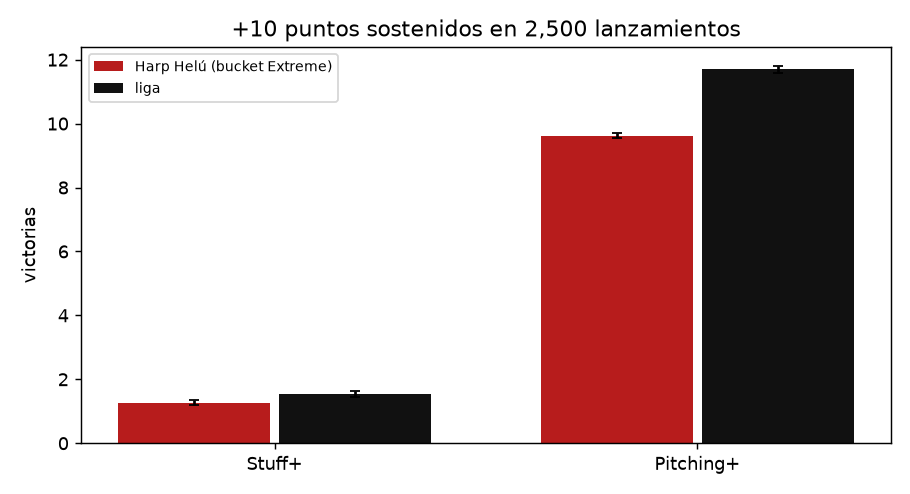
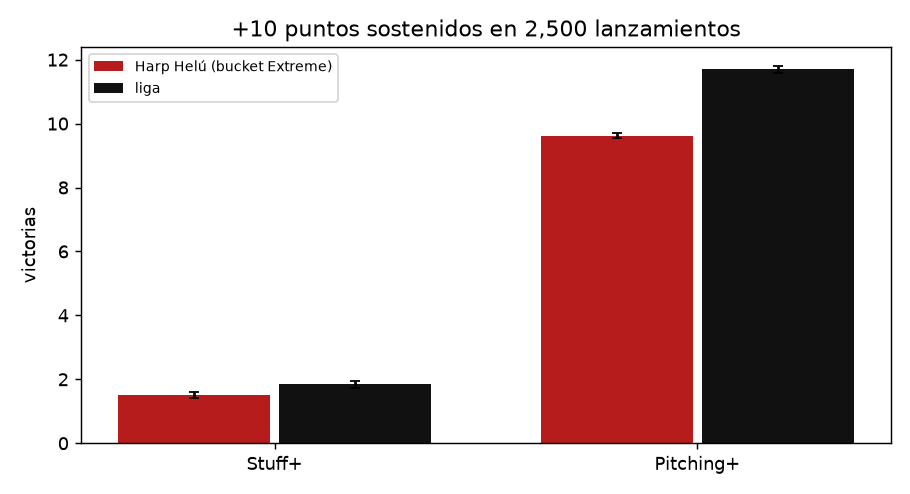
HACK-078: business value on the production Stuff+ v2 scale (OOF fit_production_stuff count-neutral value, Plus scale from the exported stuff.json): 1 point = 8.68e-4 runs/pitch [8.18e-4, 9.19e-4] (v1: 7.24e-4); +10 Stuff+ in 2,500 pitches = 21.7 runs = 1.51 wins in Harp Hel (v1: 1.26); 1 SD = 0.77 w

Changed region(s): [[0.1231, 0.7591, 0.4923, 0.8198]]

diff --git a/analysis/business_value/run.py b/analysis/business_value/run.py
@@ -1,6 +1,10 @@
 """HACK-035: carreras por victoria de la LMB, conversión Stuff+ → carreras → victorias y ejemplo del brazo a prueba de altura.
 
-Uso: python analysis/business_value/run.py  (≈ 3 min: el build de rv_x). Escribe agregados en reports/business_value/.
+Uso: python analysis/business_value/run.py  (≈ 1 h sin caché: 5 ajustes del Stuff+ de producción). Escribe agregados en
+reports/business_value/.
+
+Desde HACK-078 los puntos de Stuff+ son los de producción (v2: valor neutral al conteo + temperatura, HACK-057): xRV fuera
+de pliegue por pitcher con ``fit_production_stuff`` y la escala Plus del modelo exportado (web/public/data/models/stuff.json).
 """
 from __future__ import annotations
 
@@ -18,9 +22,11 @@ from analysis.pitching_model import run as pitching_run
 from analysis.stuff_model import run as stuff_run
 from stuffplus import splits
 from stuffplus import value as V
-from stuffplus.bundle import load_bundle
+import json
 from stuffplus.io import load_raw
 from stuffplus.models import pitching as pitching_models
+from stuffplus.models.location import add_pitch_family
+from stuffplus.models.stuff import PRODUCTION_VERSION, fit_production_stuff
 from stuffplus.physics import parks
 from stuffplus.scale import PlusScaler
 from stuffplus.schema import clean
@@ -73,23 +79,38 @@ games_per_team_season = float(ts["games"].median())
 home_starts = max(int(round(games_per_team_season / 2 / 5)), 1)  # juegos de local por temporada en los datos / rotación de 5
 
 # --- 4. carreras por punto: estimación DIRECTA fuera de muestra (puntos con el scaler del modelo, regresión del run value realizado)
-bundle = load_bundle()
-st = bundle.manifest["scalers"]["stuff"]["stats"]
+STUFF_JSON = Path("web/public/data/models/stuff.json")
+stuff_export = json.loads(STUFF_JSON.read_text(encoding="utf-8"))
+assert stuff_export["model_version"] == PRODUCTION_VERSION, "stuff.json no es el Stuff+ de producción"
+st = stuff_export["plus"]["stats"]
 sigma = float(st["__all__"]["sd"])
 sigma_years = {k: float(v["sd"]) for k, v in st.items() if k != "__all__"}
-cache = Path("artifacts/business_value_oof.parquet")
+def plus_from_export(x: np.ndarray, year: np.ndarray) -> np.ndarray:
+    """100 + 10·sign·(x − media)/de con la escala del Stuff+ exportado, por temporada (global si falta)."""
+    sign = stuff_export["plus"].get("sign", -1)
+    out = np.empty(len(x))
+    for i, (v, y) in enumerate(zip(x, year)):
+        g = st.get(str(int(y)), st["__all__"])
+        out[i] = 100 + 10 * sign * (v - g["mean"]) / g["sd"]
+    return out
+
+
+cache = Path(f"artifacts/business_value_oof_{PRODUCTION_VERSION}.parquet")
 if cache.exists():
     oofdf = pd.read_parquet(cache)
 else:
     folds = list(splits.pitcher_group_kfold(df))
-    stuff_oof = stuff_run.StuffModel().oof(df, folds)["xrv"].to_numpy(float)  # xRV predicho fuera de muestra, por pitcher
+    dfam = add_pitch_family(df)
+    stuff_oof = np.full(len(df), np.nan)  # valor de Stuff+ v2 fuera de muestra, por pitcher
+    for tr, te in folds:
+        stuff_oof[te] = fit_production_stuff(dfam.iloc[tr]).predict_xrv(dfam.iloc[te])
     po = pitching_models.run_oof(df, folds)
     pitch_neutral = pitching_models.combine(po, df["rv_x"].to_numpy(), folds)["combined_neutral"]  # Pitching+ del dashboard: bateador neutral
     oofdf = pd.DataFrame({"stuff_xrv": stuff_oof, "pitching_xrv": pitch_neutral})
     cache.parent.mkdir(parents=True, exist_ok=True)
     oofdf.to_parquet(cache, index=False)
 pts = {
-    "Stuff+": bundle.scalers["stuff"].transform(df.assign(x=oofdf["stuff_xrv"].to_numpy()), "x"),
+    "Stuff+": plus_from_export(oofdf["stuff_xrv"].to_numpy(float), df["year"].to_numpy()),
     # el scaler de Pitching+ del bundle local no es el de joahan-1: se reajusta con el mismo procedimiento (PlusScaler por temporada)
     "Pitching+": PlusScaler().fit(df.assign(x=oofdf["pitching_xrv"].to_numpy()), "x").transform(
         df.assign(x=oofdf["pitching_xrv"].to_numpy()), "x"),
@@ -109,8 +130,8 @@ direct.round(7).to_csv(OUT / "runs_per_point_direct.csv", index=False)
 cal = V.calibration_slope(oofdf["stuff_xrv"].to_numpy(float), df["rv_x"].to_numpy(float), groups)
 check = 0.1 * sigma * cal["slope"]
 pd.DataFrame([dict(sigma_scaler_all=sigma, **{f"sigma_{k}": v for k, v in sigma_years.items()}, **cal, sigma_x_slope_x_0p1=check,
-                   direct_stuff_rv_x=est[("Stuff+", "rv_x")]["per_point"], bundle_version=bundle.manifest["version"],
-                   bundle_created=bundle.manifest["created_at"])]).round(7).to_csv(OUT / "stuff_scale_calibration.csv", index=False)
+                   direct_stuff_rv_x=est[("Stuff+", "rv_x")]["per_point"], model_version=PRODUCTION_VERSION,
+                   scale_source=str(STUFF_JSON).replace("\\", "/"))]).round(7).to_csv(OUT / "stuff_scale_calibration.csv", index=False)
 per_point = {}
 for name in pts:
     e = est[(name, "rv_x")]
@@ -183,8 +204,8 @@ lines = [
     "**Estimación directa, fuera de muestra:** los puntos de Stuff+ y Pitching+ (xRV predicho con validación cruzada por pitcher, escalado con el scaler del modelo: 100 + 10·z) "
     "se regresan contra el run value realizado; las carreras ahorradas por punto y por lanzamiento son menos la pendiente. IC 95 % por pitcher (bootstrap).", "",
     tbl(direct, ["escala", "objetivo", "carreras_por_punto_lanzamiento", "lo", "hi"], "{:.3g}"), "",
-    f"Control cruzado (Stuff+): σ del scaler del bundle {bundle.manifest['version']} ({sigma:.5f}) × calibración {cal['slope']:.2f} × 0.1 = {check:.2e}, "
-    f"frente a {est[('Stuff+', 'rv_x')]['per_point']:.2e} directo. El bundle se reconstruyó localmente con `analysis/stuff_model/run.py` (creado {bundle.manifest['created_at']}). "
+    f"Control cruzado (Stuff+ {PRODUCTION_VERSION}): σ de la escala del modelo exportado ({sigma:.5f}, `{STUFF_JSON.as_posix()}`) × calibración {cal['slope']:.2f} × 0.1 = {check:.2e}, "
+    f"frente a {est[('Stuff+', 'rv_x')]['per_point']:.2e} directo. El xRV fuera de pliegue es el valor neutral al conteo de `fit_production_stuff` (HACK-057, HACK-078). "
     "Pitching+ usa el xRV combinado con bateador neutral (el que sirve el dashboard) escalado con un `PlusScaler` ajustado con el mismo procedimiento.", "",
     "### Ejemplo para el GM", "",
     f"**+{GM_POINTS} puntos de Stuff+ sostenidos en {GM_PITCHES:,} lanzamientos** (orden de magnitud de una temporada de abridor: ~30 aperturas × ~80 lanzamientos; supuesto, no de los datos):", "",
@@ -208,13 +229,13 @@ lines = [
     f"Brecha entre el brazo de alta pérdida y el de a prueba de altura: **{ex.attrs['gap_runs']:.1f} carreras ≈ {ex.attrs['gap_wins']:.2f} victorias** en esa temporada de aperturas en casa.", "",
     "## Advertencias", "",
     "- `rv_x` valora las bolas en juego con la altitud como rasgo (HACK-030): el costo de la altura incluye parte del modelo de contacto, no solo los lanzamientos.",
-    "- Los bundles no se comparten por git: la escala se reconstruyó localmente (`analysis/stuff_model/run.py`); si el modelo se reentrena, hay que volver a correr este análisis (la caché OOF está en `artifacts/`, git-ignored).",
+    "- La escala de Stuff+ es la del modelo exportado (`web/public/data/models/stuff.json`); si el modelo se reentrena, hay que volver a correr este análisis (la caché OOF está en `artifacts/`, git-ignored).",
     "- Los puntos usan el xRV de los modelos completos fuera de muestra, no el modelo destilado del dashboard (R² 0.92 / 0.94 con ellos): aproximan el mismo número.",
     "- El efecto de un punto es chico por lanzamiento y crece con el volumen: sumas grandes (miles de lanzamientos) y grupos de lanzamientos, no un lanzamiento suelto. El `rv` observado es más ruidoso que `rv_x`: su IC es más ancho.",
     "- Marcadores reconstruidos: partidos incompletos en los datos o carreras fuera de los lanzamientos pueden sesgar; los datos solo cubren una muestra de la temporada por equipo.",
     "- Linealización pitagórica válida cerca de un equipo promedio; ±1σ en sensibilidad supone dispersión aproximadamente normal.",
     "- La identidad CDMX vs Puebla sigue sin verificar (HACK-003): «entorno Extreme» agrupa los parques de altura.",
 ]
-(OUT / "summary.md").write_text("\n".join(lines))
+(OUT / "summary.md").write_text("\n".join(lines), encoding="utf-8")
 print("\n".join(lines[:14]))
 print(ex.round(4).to_string()); print(sens, sens_med)

diff --git a/reports/business_value/summary.md b/reports/business_value/summary.md
@@ -22,12 +22,12 @@ Exponente pitagórico **x = 1.90** (IC 95 % bootstrap 1.62–2.15, 60 equipo-tem
 
 | escala | objetivo | carreras_por_punto_lanzamiento | lo | hi |
 |---|---|---|---|---|
-| Stuff+ | rv_x | 0.000724 | 0.000677 | 0.000769 |
-| Stuff+ | rv | 0.000726 | 0.00067 | 0.000783 |
+| Stuff+ | rv_x | 0.000868 | 0.000818 | 0.000919 |
+| Stuff+ | rv | 0.0009 | 0.000837 | 0.000962 |
 | Pitching+ | rv_x | 0.00551 | 0.00547 | 0.00556 |
 | Pitching+ | rv | 0.00561 | 0.00555 | 0.00567 |
 
-Control cruzado (Stuff+): σ del scaler del bundle v1 (0.01055) × calibración 0.69 × 0.1 = 7.24e-04, frente a 7.24e-04 directo. El bundle se reconstruyó localmente con `analysis/stuff_model/run.py` (creado 2026-10-13T14:45:18+00:00). Pitching+ usa el xRV combinado con bateador neutral (el que sirve el dashboard) escalado con un `PlusScaler` ajustado con el mismo procedimiento.
+Control cruzado (Stuff+ stuff_v2): σ de la escala del modelo exportado (0.01171, `web/public/data/models/stuff.json`) × calibración 0.74 × 0.1 = 8.69e-04, frente a 8.68e-04 directo. El xRV fuera de pliegue es el valor neutral al conteo de `fit_production_stuff` (HACK-057, HACK-078). Pitching+ usa el xRV combinado con bateador neutral (el que sirve el dashboard) escalado con un `PlusScaler` ajustado con el mismo procedimiento.
 
 ### Ejemplo para el GM
 
@@ -35,8 +35,8 @@ Control cruzado (Stuff+): σ del scaler del bundle v1 (0.01055) × calibración 
 
 | escala | entorno | carreras | carreras_lo | carreras_hi | victorias | victorias_lo | victorias_hi |
 |---|---|---|---|---|---|---|---|
-| Stuff+ | liga | 18.1 | 16.9 | 19.2 | 1.54 | 1.44 | 1.63 |
-| Stuff+ | Harp Helú (bucket Extreme) | 18.1 | 16.9 | 19.2 | 1.26 | 1.18 | 1.34 |
+| Stuff+ | liga | 21.7 | 20.4 | 23 | 1.84 | 1.73 | 1.95 |
+| Stuff+ | Harp Helú (bucket Extreme) | 21.7 | 20.4 | 23 | 1.51 | 1.43 | 1.6 |
 | Pitching+ | liga | 138 | 137 | 139 | 11.7 | 11.6 | 11.8 |
 | Pitching+ | Harp Helú (bucket Extreme) | 138 | 137 | 139 | 9.62 | 9.54 | 9.7 |
 
@@ -44,8 +44,8 @@ Cada carrera ahorrada vale menos victorias en el Harp Helú que en la liga (más
 
 | escala | entorno | sd_puntos_entre_pitcher_temporadas | pitcher_temporadas | carreras_por_1sd | victorias_por_1sd |
 |---|---|---|---|---|---|
-| Stuff+ | liga | 5.45 | 818 | 9.86 | 0.837 |
-| Stuff+ | Harp Helú (bucket Extreme) | 5.45 | 818 | 9.86 | 0.688 |
+| Stuff+ | liga | 5.08 | 818 | 11 | 0.934 |
+| Stuff+ | Harp Helú (bucket Extreme) | 5.08 | 818 | 11 | 0.768 |
 | Pitching+ | liga | 1.55 | 818 | 21.4 | 1.82 |
 | Pitching+ | Harp Helú (bucket Extreme) | 1.55 | 818 | 21.4 | 1.5 |
 
@@ -53,22 +53,22 @@ Tabla completa (lanzamientos × entorno × estimación) en `conversion_table.csv
 
 | escenario | lanzamientos | entorno | carreras | victorias |
 |---|---|---|---|---|
-| Stuff+ · rv_x (central) | 1000 | liga | 0.724 | 0.0614 |
-| Stuff+ · rv_x (central) | 1000 | Harp Helú (bucket Extreme) | 0.724 | 0.0505 |
-| Stuff+ · rv_x (central) | 2500 | liga | 1.81 | 0.154 |
-| Stuff+ · rv_x (central) | 2500 | Harp Helú (bucket Extreme) | 1.81 | 0.126 |
-| Stuff+ · rv_x (IC 2.5 %) | 1000 | liga | 0.677 | 0.0575 |
-| Stuff+ · rv_x (IC 2.5 %) | 1000 | Harp Helú (bucket Extreme) | 0.677 | 0.0473 |
-| Stuff+ · rv_x (IC 2.5 %) | 2500 | liga | 1.69 | 0.144 |
-| Stuff+ · rv_x (IC 2.5 %) | 2500 | Harp Helú (bucket Extreme) | 1.69 | 0.118 |
-| Stuff+ · rv_x (IC 97.5 %) | 1000 | liga | 0.769 | 0.0653 |
-| Stuff+ · rv_x (IC 97.5 %) | 1000 | Harp Helú (bucket Extreme) | 0.769 | 0.0537 |
-| Stuff+ · rv_x (IC 97.5 %) | 2500 | liga | 1.92 | 0.163 |
-| Stuff+ · rv_x (IC 97.5 %) | 2500 | Harp Helú (bucket Extreme) | 1.92 | 0.134 |
-| Stuff+ · rv observado | 1000 | liga | 0.726 | 0.0616 |
-| Stuff+ · rv observado | 1000 | Harp Helú (bucket Extreme) | 0.726 | 0.0507 |
-| Stuff+ · rv observado | 2500 | liga | 1.82 | 0.154 |
-| Stuff+ · rv observado | 2500 | Harp Helú (bucket Extreme) | 1.82 | 0.127 |
+| Stuff+ · rv_x (central) | 1000 | liga | 0.868 | 0.0736 |
+| Stuff+ · rv_x (central) | 1000 | Harp Helú (bucket Extreme) | 0.868 | 0.0605 |
+| Stuff+ · rv_x (central) | 2500 | liga | 2.17 | 0.184 |
+| Stuff+ · rv_x (central) | 2500 | Harp Helú (bucket Extreme) | 2.17 | 0.151 |
+| Stuff+ · rv_x (IC 2.5 %) | 1000 | liga | 0.818 | 0.0694 |
+| Stuff+ · rv_x (IC 2.5 %) | 1000 | Harp Helú (bucket Extreme) | 0.818 | 0.0571 |
+| Stuff+ · rv_x (IC 2.5 %) | 2500 | liga | 2.04 | 0.173 |
+| Stuff+ · rv_x (IC 2.5 %) | 2500 | Harp Helú (bucket Extreme) | 2.04 | 0.143 |
+| Stuff+ · rv_x (IC 97.5 %) | 1000 | liga | 0.919 | 0.078 |
+| Stuff+ · rv_x (IC 97.5 %) | 1000 | Harp Helú (bucket Extreme) | 0.919 | 0.0641 |
+| Stuff+ · rv_x (IC 97.5 %) | 2500 | liga | 2.3 | 0.195 |
+| Stuff+ · rv_x (IC 97.5 %) | 2500 | Harp Helú (bucket Extreme) | 2.3 | 0.16 |
+| Stuff+ · rv observado | 1000 | liga | 0.9 | 0.0764 |
+| Stuff+ · rv observado | 1000 | Harp Helú (bucket Extreme) | 0.9 | 0.0628 |
+| Stuff+ · rv observado | 2500 | liga | 2.25 | 0.191 |
+| Stuff+ · rv observado | 2500 | Harp Helú (bucket Extreme) | 2.25 | 0.157 |
 | Pitching+ · rv_x (central) | 1000 | liga | 5.51 | 0.468 |
 | Pitching+ · rv_x (central) | 1000 | Harp Helú (bucket Extreme) | 5.51 | 0.385 |
 | Pitching+ · rv_x (central) | 2500 | liga | 13.8 | 1.17 |
@@ -105,7 +105,7 @@ Brecha entre el brazo de alta pérdida y el de a prueba de altura: **8.1 carrera
 ## Advertencias
 
 - `rv_x` valora las bolas en juego con la altitud como rasgo (HACK-030): el costo de la altura incluye parte del modelo de contacto, no solo los lanzamientos.
-- Los bundles no se comparten por git: la escala se reconstruyó localmente (`analysis/stuff_model/run.py`); si el modelo se reentrena, hay que volver a correr este análisis (la caché OOF está en `artifacts/`, git-ignored).
+- La escala de Stuff+ es la del modelo exportado (`web/public/data/models/stuff.json`); si el modelo se reentrena, hay que volver a correr este análisis (la caché OOF está en `artifacts/`, git-ignored).
 - Los puntos usan el xRV de los modelos completos fuera de muestra, no el modelo destilado del dashboard (R² 0.92 / 0.94 con ellos): aproximan el mismo número.
 - El efecto de un punto es chico por lanzamiento y crece con el volumen: sumas grandes (miles de lanzamientos) y grupos de lanzamientos, no un lanzamiento suelto. El `rv` observado es más ruidoso que `rv_x`: su IC es más ancho.
 - Marcadores reconstruidos: partidos incompletos en los datos o carreras fuera de los lanzamientos pueden sesgar; los datos solo cubren una muestra de la temporada por equipo.
